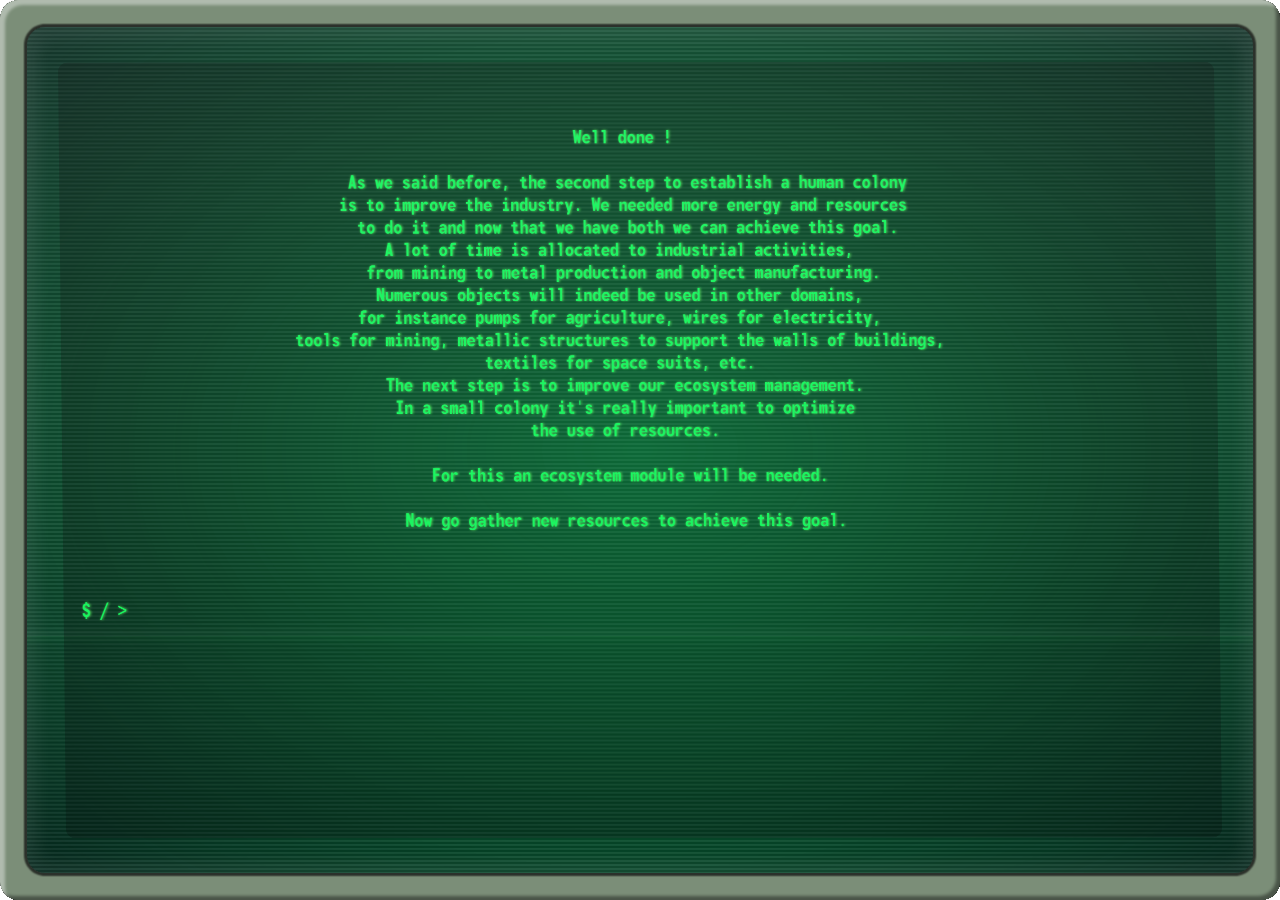
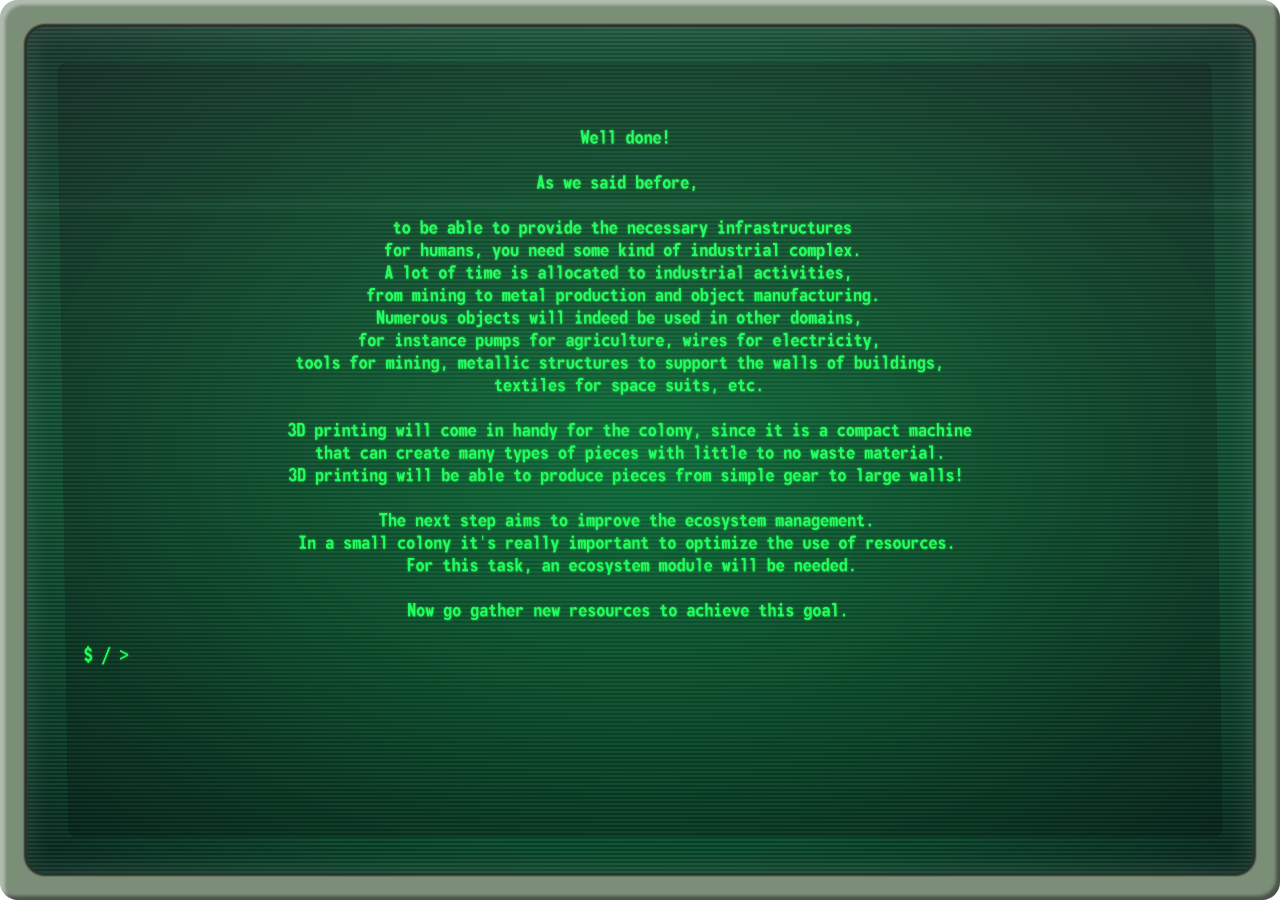
Everything works, fixed skybox, fixed transitions

diff --git a/src/app/services/game/gestion/gestion-slides.service.ts b/src/app/services/game/gestion/gestion-slides.service.ts
@@ -47,21 +47,124 @@ export class GestionSlidesService {
         this.setupSlide(this.slides[4]);
         this.slides[4].width = "1600px";
         this.slides[4].stretch = GUI.Image.STRETCH_UNIFORM;
+        // Slide 5
+        this.slides.push(new GUI.Image("slide5", "assets/gestion/0/5.png"));
+        this.setupSlide(this.slides[5]);
+        this.slides[5].width = "1200px";
+        this.slides[5].stretch = GUI.Image.STRETCH_UNIFORM;
 
         break;
 
       // Industry
       case 1:
-        //TODO
+        // Slide 0
+        this.slides.push(new GUI.Image("slide0", "assets/gestion/1/0.png"));
+        this.setupSlide(this.slides[0]);
+        this.slides[0].width = "1600px";
+        this.slides[0].stretch = GUI.Image.STRETCH_UNIFORM;
+        // Slide 1
+        this.slides.push(new GUI.Image("slide1", "assets/gestion/1/1.png"));
+        this.setupSlide(this.slides[1]);
+        this.slides[1].width = "1000px";
+        this.slides[1].stretch = GUI.Image.STRETCH_UNIFORM;
+        // Slide 2
+        this.slides.push(new GUI.Image("slide2", "assets/gestion/1/2.png"));
+        this.setupSlide(this.slides[2]);
+        this.slides[2].width = "1000px";
+        this.slides[2].stretch = GUI.Image.STRETCH_UNIFORM;
+        // Slide 3
+        this.slides.push(new GUI.Image("slide3", "assets/gestion/1/3.jpg"));
+        this.setupSlide(this.slides[3]);
+        this.slides[3].width = "1280px";
+        this.slides[3].stretch = GUI.Image.STRETCH_UNIFORM;
+        // Slide 4
+        this.slides.push(new GUI.Image("slide4", "assets/gestion/1/4.png"));
+        this.setupSlide(this.slides[4]);
+        this.slides[4].width = "1600px";
+        this.slides[4].stretch = GUI.Image.STRETCH_UNIFORM;
+        // Slide 5
+        this.slides.push(new GUI.Image("slide5", "assets/gestion/1/5.png"));
+        this.setupSlide(this.slides[5]);
+        this.slides[5].width = "1200px";
+        this.slides[5].stretch = GUI.Image.STRETCH_UNIFORM;
         break;
+
       // Ecosystem
       case 2:
-        //TODO
+        // Slide 0
+        this.slides.push(new GUI.Image("slide0", "assets/gestion/2/0.png"));
+        this.setupSlide(this.slides[0]);
+        this.slides[0].width = "1600px";
+        this.slides[0].stretch = GUI.Image.STRETCH_UNIFORM;
+        // Slide 1
+        this.slides.push(new GUI.Image("slide1", "assets/gestion/2/1.png"));
+        this.setupSlide(this.slides[1]);
+        this.slides[1].width = "1600px";
+        this.slides[1].stretch = GUI.Image.STRETCH_UNIFORM;
+        // Slide 2
+        this.slides.push(new GUI.Image("slide2", "assets/gestion/2/2.png"));
+        this.setupSlide(this.slides[2]);
+        this.slides[2].width = "600px";
+        this.slides[2].stretch = GUI.Image.STRETCH_UNIFORM;
+        // Slide 3
+        this.slides.push(new GUI.Image("slide3", "assets/gestion/2/3.png"));
+        this.setupSlide(this.slides[3]);
+        this.slides[3].width = "1200px";
+        this.slides[3].stretch = GUI.Image.STRETCH_UNIFORM;
+        // Slide 4
+        this.slides.push(new GUI.Image("slide4", "assets/gestion/2/4.png"));
+        this.setupSlide(this.slides[4]);
+        this.slides[4].width = "1000px";
+        this.slides[4].stretch = GUI.Image.STRETCH_UNIFORM;
+        // Slide 5
+        this.slides.push(new GUI.Image("slide5", "assets/gestion/2/5.png"));
+        this.setupSlide(this.slides[5]);
+        this.slides[5].width = "800px";
+        this.slides[5].stretch = GUI.Image.STRETCH_UNIFORM;
+        // Slide 6
+        this.slides.push(new GUI.Image("slide6", "assets/gestion/2/6.png"));
+        this.setupSlide(this.slides[6]);
+        this.slides[6].width = "1400px";
+        this.slides[6].stretch = GUI.Image.STRETCH_UNIFORM;
         break;
 
       // Social
       case 3:
-        //TODO
+        // Slide 0
+        this.slides.push(new GUI.Image("slide0", "assets/gestion/3/0.png"));
+        this.setupSlide(this.slides[0]);
+        this.slides[0].width = "1600px";
+        this.slides[0].stretch = GUI.Image.STRETCH_UNIFORM;
+        // Slide 1
+        this.slides.push(new GUI.Image("slide1", "assets/gestion/3/1.jpg"));
+        this.setupSlide(this.slides[1]);
+        this.slides[1].width = "1600px";
+        this.slides[1].stretch = GUI.Image.STRETCH_UNIFORM;
+        // Slide 2
+        this.slides.push(new GUI.Image("slide2", "assets/gestion/3/2.jpg"));
+        this.setupSlide(this.slides[2]);
+        this.slides[2].width = "1200px";
+        this.slides[2].stretch = GUI.Image.STRETCH_UNIFORM;
+        // Slide 3
+        this.slides.push(new GUI.Image("slide3", "assets/gestion/3/3.jpg"));
+        this.setupSlide(this.slides[3]);
+        this.slides[3].width = "700px";
+        this.slides[3].stretch = GUI.Image.STRETCH_UNIFORM;
+        // Slide 4
+        this.slides.push(new GUI.Image("slide4", "assets/gestion/3/4.jpg"));
+        this.setupSlide(this.slides[4]);
+        this.slides[4].width = "700px";
+        this.slides[4].stretch = GUI.Image.STRETCH_UNIFORM;
+        // Slide 5
+        this.slides.push(new GUI.Image("slide5", "assets/gestion/3/5.jpg"));
+        this.setupSlide(this.slides[5]);
+        this.slides[5].width = "900px";
+        this.slides[5].stretch = GUI.Image.STRETCH_UNIFORM;
+        // Slide 6
+        this.slides.push(new GUI.Image("slide6", "assets/gestion/3/6.png"));
+        this.setupSlide(this.slides[6]);
+        this.slides[6].width = "900px";
+        this.slides[6].stretch = GUI.Image.STRETCH_UNIFORM;
         break;
     }
 
@@ -86,7 +189,7 @@ export class GestionSlidesService {
     this.changeSlideText.verticalAlignment = GUI.TextBlock.VERTICAL_ALIGNMENT_BOTTOM;
     this.changeSlideText.textVerticalAlignment = GUI.TextBlock.VERTICAL_ALIGNMENT_BOTTOM;
     this.changeSlideText.height = "50px";
-    this.changeSlideText.top = "-30px";
+    this.changeSlideText.top = "-35px";
     this.changeSlideText.color = "#00f954";
     this.changeSlideText.fontSizeInPixels = 20;
     this.changeSlideText.zIndex = 1;

diff --git a/src/app/services/game/gestion/gestion-hud.service.ts b/src/app/services/game/gestion/gestion-hud.service.ts
@@ -1,4 +1,4 @@
-import { Injectable } from '@angular/core';
+import { Inject, Injectable } from '@angular/core';
 
 import * as GUI from '@babylonjs/gui';
 import * as BABYLON from '@babylonjs/core';
@@ -20,37 +20,43 @@ export class GestionHudService {
   socialObj: GUI.Image;
   techObj: GUI.Image;
 
-  constructor() {
+  constructor(@Inject(Number) completedAmount: number) {
 
-    this.objectivTracker0 = new GUI.Image("hudWindow", "assets/gestionHud/uncompletedObj.png");
+    this.objectivTracker0 = new GUI.Image("objectivTracker0");
     this.objectivTracker0.width = "150px";
     this.objectivTracker0.height = "35px";
     this.objectivTracker0.top = "-470px";
     this.objectivTracker0.left = "800px";
+    this.objectivTracker0.source = completedAmount > 0 ? "assets/gestionHud/completedObj.png" : "assets/gestionHud/uncompletedObj.png";
 
-    this.objectivTracker1 = new GUI.Image("hudWindow", "assets/gestionHud/uncompletedObj.png");
+
+    this.objectivTracker1 = new GUI.Image("objectivTracker1", "assets/gestionHud/uncompletedObj.png");
     this.objectivTracker1.width = "150px";
     this.objectivTracker1.height = "35px";
     this.objectivTracker1.top = "-415px";
     this.objectivTracker1.left = "800px";
+    this.objectivTracker1.source = completedAmount > 2 ? "assets/gestionHud/completedObj.png" : "assets/gestionHud/uncompletedObj.png";
 
-    this.objectivTracker2 = new GUI.Image("hudWindow", "assets/gestionHud/uncompletedObj.png");
+    this.objectivTracker2 = new GUI.Image("objectivTracker2", "assets/gestionHud/uncompletedObj.png");
     this.objectivTracker2.width = "150px";
     this.objectivTracker2.height = "35px";
     this.objectivTracker2.top = "-360px";
     this.objectivTracker2.left = "800px";
+    this.objectivTracker2.source = completedAmount > 3 ? "assets/gestionHud/completedObj.png" : "assets/gestionHud/uncompletedObj.png";
 
-    this.objectivTracker3 = new GUI.Image("hudWindow", "assets/gestionHud/uncompletedObj.png");
+    this.objectivTracker3 = new GUI.Image("objectivTracker3", "assets/gestionHud/uncompletedObj.png");
     this.objectivTracker3.width = "150px";
     this.objectivTracker3.height = "35px";
     this.objectivTracker3.top = "-305px";
     this.objectivTracker3.left = "800px";
+    this.objectivTracker3.source = completedAmount > 4 ? "assets/gestionHud/completedObj.png" : "assets/gestionHud/uncompletedObj.png";
 
-    this.objectivTracker4 = new GUI.Image("hudWindow", "assets/gestionHud/uncompletedObj.png");
+    this.objectivTracker4 = new GUI.Image("objectivTracker4", "assets/gestionHud/uncompletedObj.png");
     this.objectivTracker4.width = "150px";
     this.objectivTracker4.height = "35px";
     this.objectivTracker4.top = "-250px";
     this.objectivTracker4.left = "800px";
+    this.objectivTracker4.source = completedAmount > 1 ? "assets/gestionHud/completedObj.png" : "assets/gestionHud/uncompletedObj.png";
 
     this.energyObj = new GUI.Image("energyObj", "assets/gestionHud/energyIcon.png");
     this.energyObj.width = "35px";
@@ -62,7 +68,7 @@ export class GestionHudService {
     this.energyObj.shadowOffsetY = 1;
     this.energyObj.shadowBlur = 1;
 
-    this.ecosystemObj = new GUI.Image("energyObj", "assets/gestionHud/ecosystemIcon.png");
+    this.ecosystemObj = new GUI.Image("ecosystemObj", "assets/gestionHud/ecosystemIcon.png");
     this.ecosystemObj.width = "35px";
     this.ecosystemObj.height = "35px";
     this.ecosystemObj.top = "-415px";
@@ -72,7 +78,7 @@ export class GestionHudService {
     this.ecosystemObj.shadowOffsetY = 1;
     this.ecosystemObj.shadowBlur = 1;
 
-    this.habitationObj = new GUI.Image("energyObj", "assets/gestionHud/habitationIcon.png");
+    this.habitationObj = new GUI.Image("habitationObj", "assets/gestionHud/habitationIcon.png");
     this.habitationObj.width = "35px";
     this.habitationObj.height = "35px";
     this.habitationObj.top = "-360px";
@@ -82,7 +88,7 @@ export class GestionHudService {
     this.habitationObj.shadowOffsetY = 1;
     this.habitationObj.shadowBlur = 1;
 
-    this.socialObj = new GUI.Image("energyObj", "assets/gestionHud/socialIcon.png");
+    this.socialObj = new GUI.Image("socialObj", "assets/gestionHud/socialIcon.png");
     this.socialObj.width = "35px";
     this.socialObj.height = "35px";
     this.socialObj.top = "-305px";
@@ -92,7 +98,7 @@ export class GestionHudService {
     this.socialObj.shadowOffsetY = 1;
     this.socialObj.shadowBlur = 1;
 
-    this.techObj = new GUI.Image("energyObj", "assets/gestionHud/techIcon.png");
+    this.techObj = new GUI.Image("techObj", "assets/gestionHud/techIcon.png");
     this.techObj.width = "35px";
     this.techObj.height = "35px";
     this.techObj.top = "-250px";
@@ -105,7 +111,7 @@ export class GestionHudService {
   }
 
   /**
-   * 
+   * Function used to display the status bars
    * @param scene 
    */
   public displayGoal(scene: BABYLON.Scene) {

diff --git a/src/app/game/game.service.ts b/src/app/game/game.service.ts
@@ -26,7 +26,7 @@ export class GameService {
 
   private size_z: number = 30;
   private terr2Matrix: number[][] = [];
-  private buildList: number[][] = [];
+  private buildList: number[][] = [[50, 50]];
 
   public canvas!: HTMLCanvasElement;
   public engine!: BABYLON.Engine;
@@ -561,9 +561,9 @@ export class GameService {
     let skyboxMaterial:BABYLON.StandardMaterial = new BABYLON.StandardMaterial("skyBox", this.scene);
     skyboxMaterial.backFaceCulling = false;
     skyboxMaterial.reflectionTexture = new BABYLON.CubeTexture(
-      "assets/textures/skybox/skyboxRedderSun/",
-      this.scene,
-      ["_pz.png","_ny.png","_nx.png","_px.png","_nz.png","_py.png"],
+      "assets/textures/skybox/skyboxRedNebulaeNormalSun/", 
+      this.scene, 
+      ["right.png","top.png","front.png","left.png","bottom.png","back.png"]
     );
     skyboxMaterial.reflectionTexture.coordinatesMode = BABYLON.Texture.SKYBOX_MODE;
     skyboxMaterial.diffuseColor = new BABYLON.Color3(0, 0, 0);
@@ -1054,7 +1054,7 @@ export class GameService {
     aboveCamera.panningDistanceLimit = 0.1;
 
     // Init Services
-    let hudService = new GestionHudService;
+    let hudService = new GestionHudService(this.levelNumber);
     hudService.displayGoal(this.scene);
     let matrixService: MatrixService = new MatrixService;
     let gesMeLoadService: GestionMeshLoaderService = new GestionMeshLoaderService(matrixService);
@@ -1080,7 +1080,7 @@ export class GameService {
     let skybox:BABYLON.Mesh = BABYLON.MeshBuilder.CreateBox("skyBox", {size:1000.0}, this.scene);
     let skyboxMaterial:BABYLON.StandardMaterial = new BABYLON.StandardMaterial("skyBox", this.scene);
     skyboxMaterial.backFaceCulling = false;
-    skyboxMaterial.reflectionTexture = new BABYLON.CubeTexture("assets/textures/skybox/skyboxRedNebulaeNormalSun/", this.scene, ["right.png","bottom.png","front.png","left.png","top.png","back.png"]);
+    skyboxMaterial.reflectionTexture = new BABYLON.CubeTexture("assets/textures/skybox/skyboxRedNebulaeNormalSun/", this.scene, ["right.png","top.png","front.png","left.png","bottom.png","back.png"]);
     skyboxMaterial.reflectionTexture.coordinatesMode = BABYLON.Texture.SKYBOX_MODE;
     skyboxMaterial.diffuseColor = new BABYLON.Color3(0, 0, 0);
     skyboxMaterial.specularColor = new BABYLON.Color3(0, 0, 0);
@@ -1132,13 +1132,14 @@ export class GameService {
     this.GroundBoxes.freezeWorldMatrix();
 
     // Load the 3D models in the scene
-    gesMeLoadService.initMeshes(this.scene, this.levelNumber, () => {
+    gesMeLoadService.initMeshes(this.scene, this.levelNumber+1, () => {
       gesMeLoadService.initBuildingMatrix(this.terr2Matrix.length, this.terr2Matrix[0].length);
       gesMeLoadService.setupPlacedModules(this.buildList, this.scene, this.terr2Matrix);
       gesMoPickService.addMouseListener(this.scene, this.terr2Matrix, this.buildList, hudService);
 
       let ambianceMusic = new BABYLON.Sound("music", "assets/sound/music/ambiance.wav", this.scene, () => { ambianceMusic.play(); }, { volume: .3, loop: true, });
-      gesSlidesService.displayIntro();
+      if (this.levelNumber == 1)
+        gesSlidesService.displayIntro();
 
       this.animate();
     });

diff --git a/src/app/services/game/gestion/gestion-mouse-picker.service.ts b/src/app/services/game/gestion/gestion-mouse-picker.service.ts
@@ -125,7 +125,24 @@ export class GestionMousePickerService {
 
           scene.onPointerObservable.removeCallback(mouseEventCallback);
           this.gesSlidesService.displaySlides(scene);
-          hudService.updateObj0();
+          
+          switch (buildList.length - 2) {//-1 for the base mesh and -1 for the one that just got added
+            case 0:
+              hudService.updateObj0();
+              break;
+            case 1:
+              hudService.updateObj1();
+              break;
+            case 2:
+              hudService.updateObj2();
+              break;
+            case 3:
+              hudService.updateObj3();
+              break;
+            case 4:
+              hudService.updateObj4();
+              break;
+          }
 
           this.isPlacable = false;
         }
